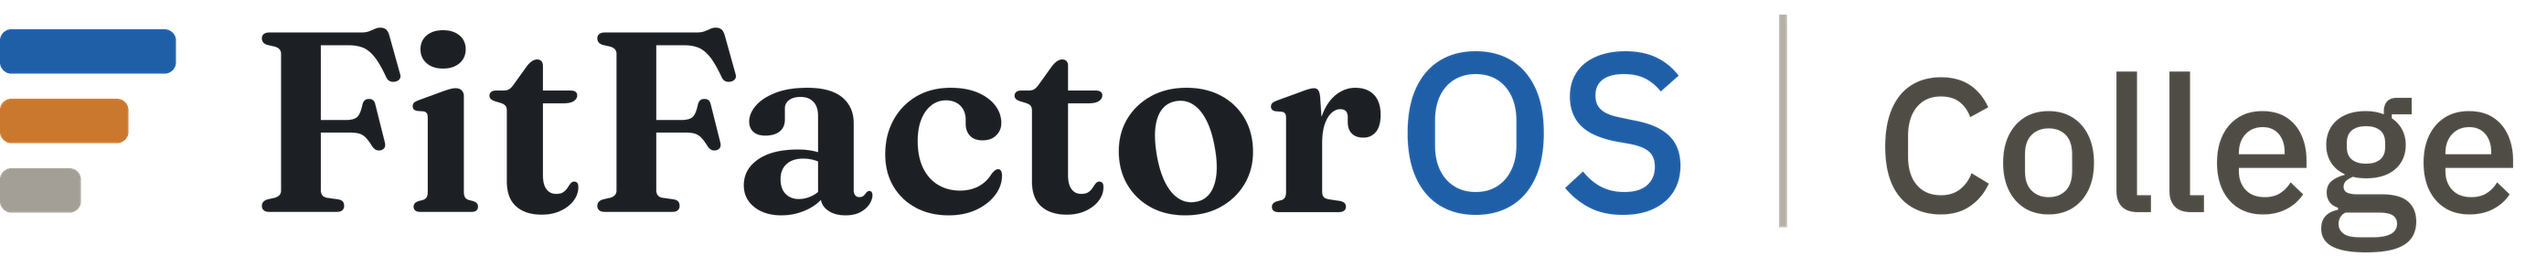
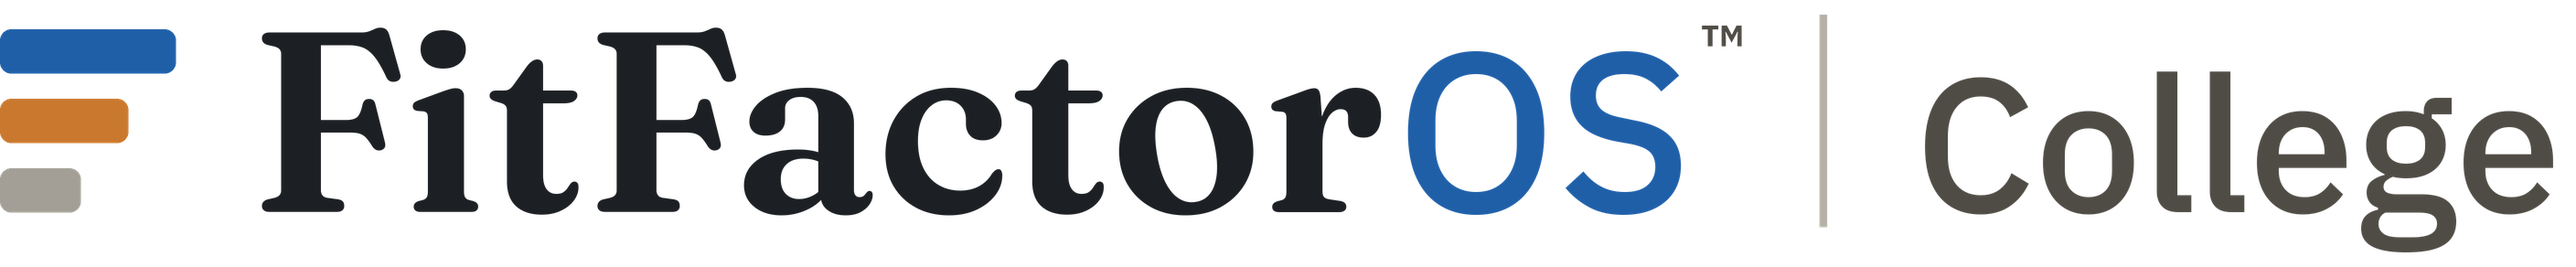
Add files via upload
Mark FitFactorOS as a trademark; add citation file

- README: FitFactorOS™ at first mention
- docs/brand/brand.md: "The name and the credit" section
- CITATION.cff: enables GitHub's "Cite this repository" button
- CHANGELOG entry

diff --git a/docs/brand/brand.md b/docs/brand/brand.md
@@ -29,7 +29,7 @@ FitFactorOS has three levels:
 
 ## Logo
 
-Three stacked bars, one for each tag (Verified, Estimated, Inferred), then "FitFactor" in Fraunces with "OS" in IBM Plex Sans, accent blue. Edition versions add a thin gray divider and the edition name.
+Three stacked bars, one for each tag (Verified, Estimated, Inferred), then "FitFactor" in Fraunces with "OS" in IBM Plex Sans, accent blue, and a small ™. Edition versions add a thin gray divider and the edition name.
 
 | File | Use |
 |---|---|
@@ -63,6 +63,12 @@ These match the dashboard and morning email.
 - **Tags and the paste line:** IBM Plex Mono
 
 All three are free Google Fonts. Presenting slides on someone else's computer? Use basic fonts (for example Georgia and Arial) for the text and keep the logo as a picture.
+
+## The name and the credit
+
+- **FitFactorOS™ is a trademark of Jeremy Walsh.** The code is free to use under the [MIT license](../../LICENSE); the name isn't part of that. If you build your own version, please give it a different name.
+- Use ™ the first time FitFactorOS appears in a document. Once the name is registered, it becomes ®.
+- Credit line for materials: *Created by Jeremy Walsh.* To cite FitFactorOS, use the **Cite this repository** button on GitHub (it reads [CITATION.cff](../../CITATION.cff)).
 
 ## Examples
 

diff --git a/CHANGELOG.md b/CHANGELOG.md
@@ -2,6 +2,12 @@
 
 What changed in each FitFactorOS update, newest first. Your Sheet and your Intake answers carry over between updates unless a note here says otherwise.
 
+## 2026-11-11 (credit): the name and how to cite it
+
+- **FitFactorOS™.** The name is now marked as a trademark of Jeremy Walsh, in the README and on the logo. The code stays free under the MIT license; if you build your own version, please give it a different name. Details in the [brand page](docs/brand/brand.md#the-name-and-the-credit).
+- **New: a "Cite this repository" button** on GitHub, from the new CITATION.cff file, so anyone who shares or writes about FitFactorOS can credit it correctly.
+- No skills changed, so there's nothing to reinstall.
+
 ## 2026-11-11 (branding): a logo, a brand page, and "job fit system"
 
 - **FitFactorOS has a logo.** Three bars, one for each tag (Verified, Estimated, Inferred), then the name. It's now at the top of this README. Files and a short brand page (names, colors, fonts) are in [docs/brand](docs/brand/brand.md).

diff --git a/README.md b/README.md
@@ -4,7 +4,7 @@
 
 ### Find jobs worth pursuing. Know why they're a fit.
 
-FitFactorOS is a free, open-source tool that helps you evaluate job opportunities against your experience, priorities, and deal-breakers.
+FitFactorOS™ is a free, open-source tool that helps you evaluate job opportunities against your experience, priorities, and deal-breakers.
 
 Paste a job posting, answer a few questions, and get a clear assessment of how well the company and role fit you—including potential red flags and what to investigate next.
 
